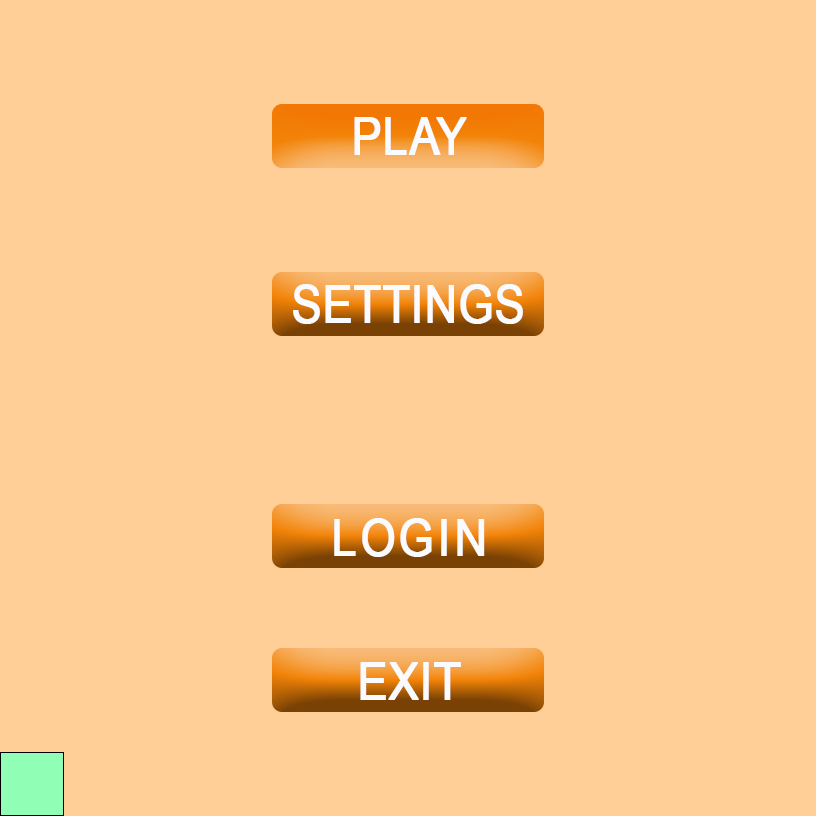
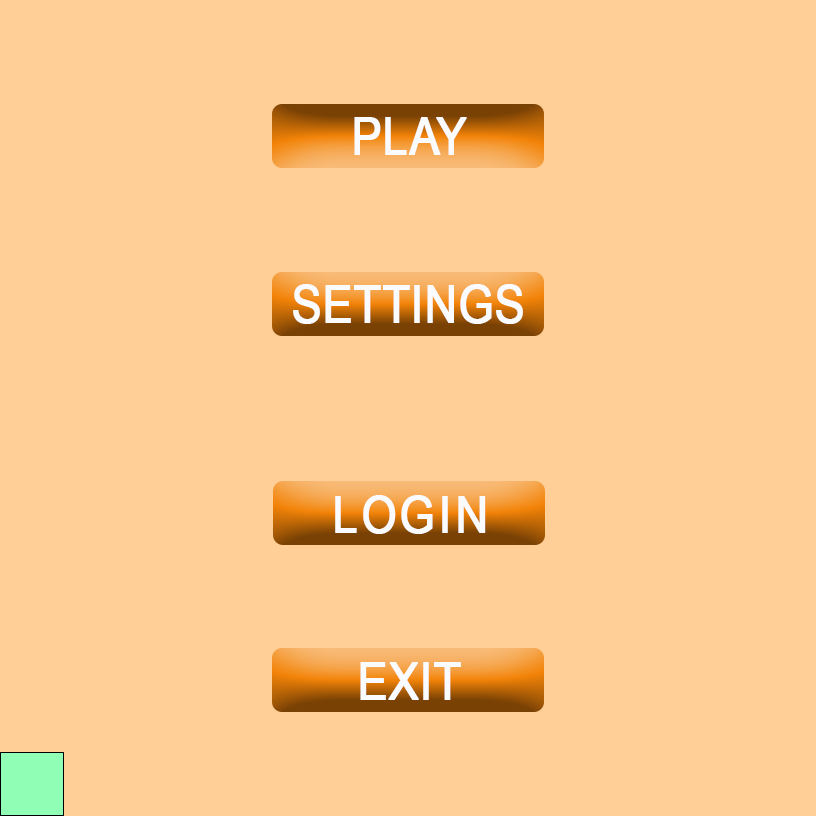
menù iniziale ora ha il bottone login messo bene

Changed region(s): [[0.3064, 0.5821, 0.674, 0.7047], [0.337, 0.1225, 0.674, 0.1838]]

diff --git a/src/View/StatesGraphics/MenuGraphics.java b/src/View/StatesGraphics/MenuGraphics.java
@@ -19,7 +19,7 @@ public class MenuGraphics extends StateGraphics{
 
     private void loadImgs() {
         imgs = new BufferedImage[5];
-        imgs[0] = loadImg("/menu_iniziale/JBomberman_menù_iniziale_1.png");
+        imgs[0] = loadImg("/menu_iniziale/JBomberman_menù_iniziale.png");
         imgs[1] = loadImg("/menu_iniziale/JBomberman_menù_iniziale_exit_premuto.png");
         imgs[2] = loadImg("/menu_iniziale/JBomberman_menù_iniziale_login_premuto.png");
         imgs[3] = loadImg("/menu_iniziale/JBomberman_menù_iniziale_settings_premuto.png");
